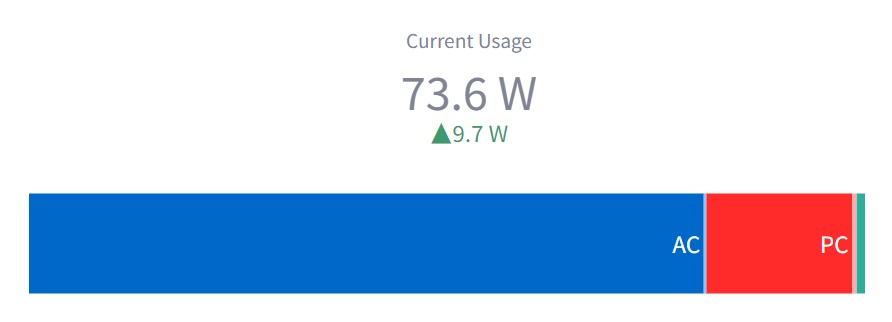
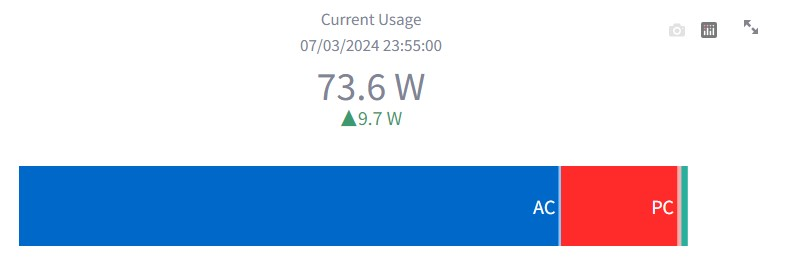
show datetime

diff --git a/src/views/view_live_data.py b/src/views/view_live_data.py
@@ -1,16 +1,23 @@
+import datetime
+
 import pandas as pd
 import plotly.express as px
 import plotly.graph_objects as go
 import streamlit as st
 
 
-def view_live_total(current_total: float, previous_total: float) -> None:
+def view_live_total(
+    current_total: float, previous_total: float, current_date: datetime.datetime
+) -> None:
+    datetime_str = current_date.strftime("%d/%m/%Y %H:%M:%S")
+    title = "<span style='font-size:1.7em'>Current Usage</span>"
+    title += f"<br><br><span style='font-size:1.7em'>{datetime_str}</span>"
     fig = go.Figure()
     fig.add_trace(
         go.Indicator(
             mode="number+delta",
             value=current_total,
-            title="<span style='font-size:1.7em'>Current Usage</span>",
+            title=title,
             number={"suffix": " W", "font.size": 40},
             delta={"reference": previous_total, "suffix": " W"},
         )

diff --git a/src/controller/controller.py b/src/controller/controller.py
@@ -56,10 +56,8 @@ def control_live_data(data: DataHandler) -> None:
         return
     current_total = data.month_series_minutely[-1].sum(axis=1).values()[0, 0]
     previous_total = data.month_series_minutely[-2].sum(axis=1).values()[0, 0]
-    view_live_data.view_live_total(
-        current_total,
-        previous_total,
-    )
+    current_time = data.month_series_minutely[-1].time_index.to_pydatetime()[0]  # type: ignore
+    view_live_data.view_live_total(current_total, previous_total, current_time)
     latest_data = data.month_series_minutely[-1].pd_dataframe().T.reset_index()
     latest_data.columns = ["Device", "Power (W)"]
     latest_data["Percentage (%)"] = latest_data["Power (W)"].apply(
